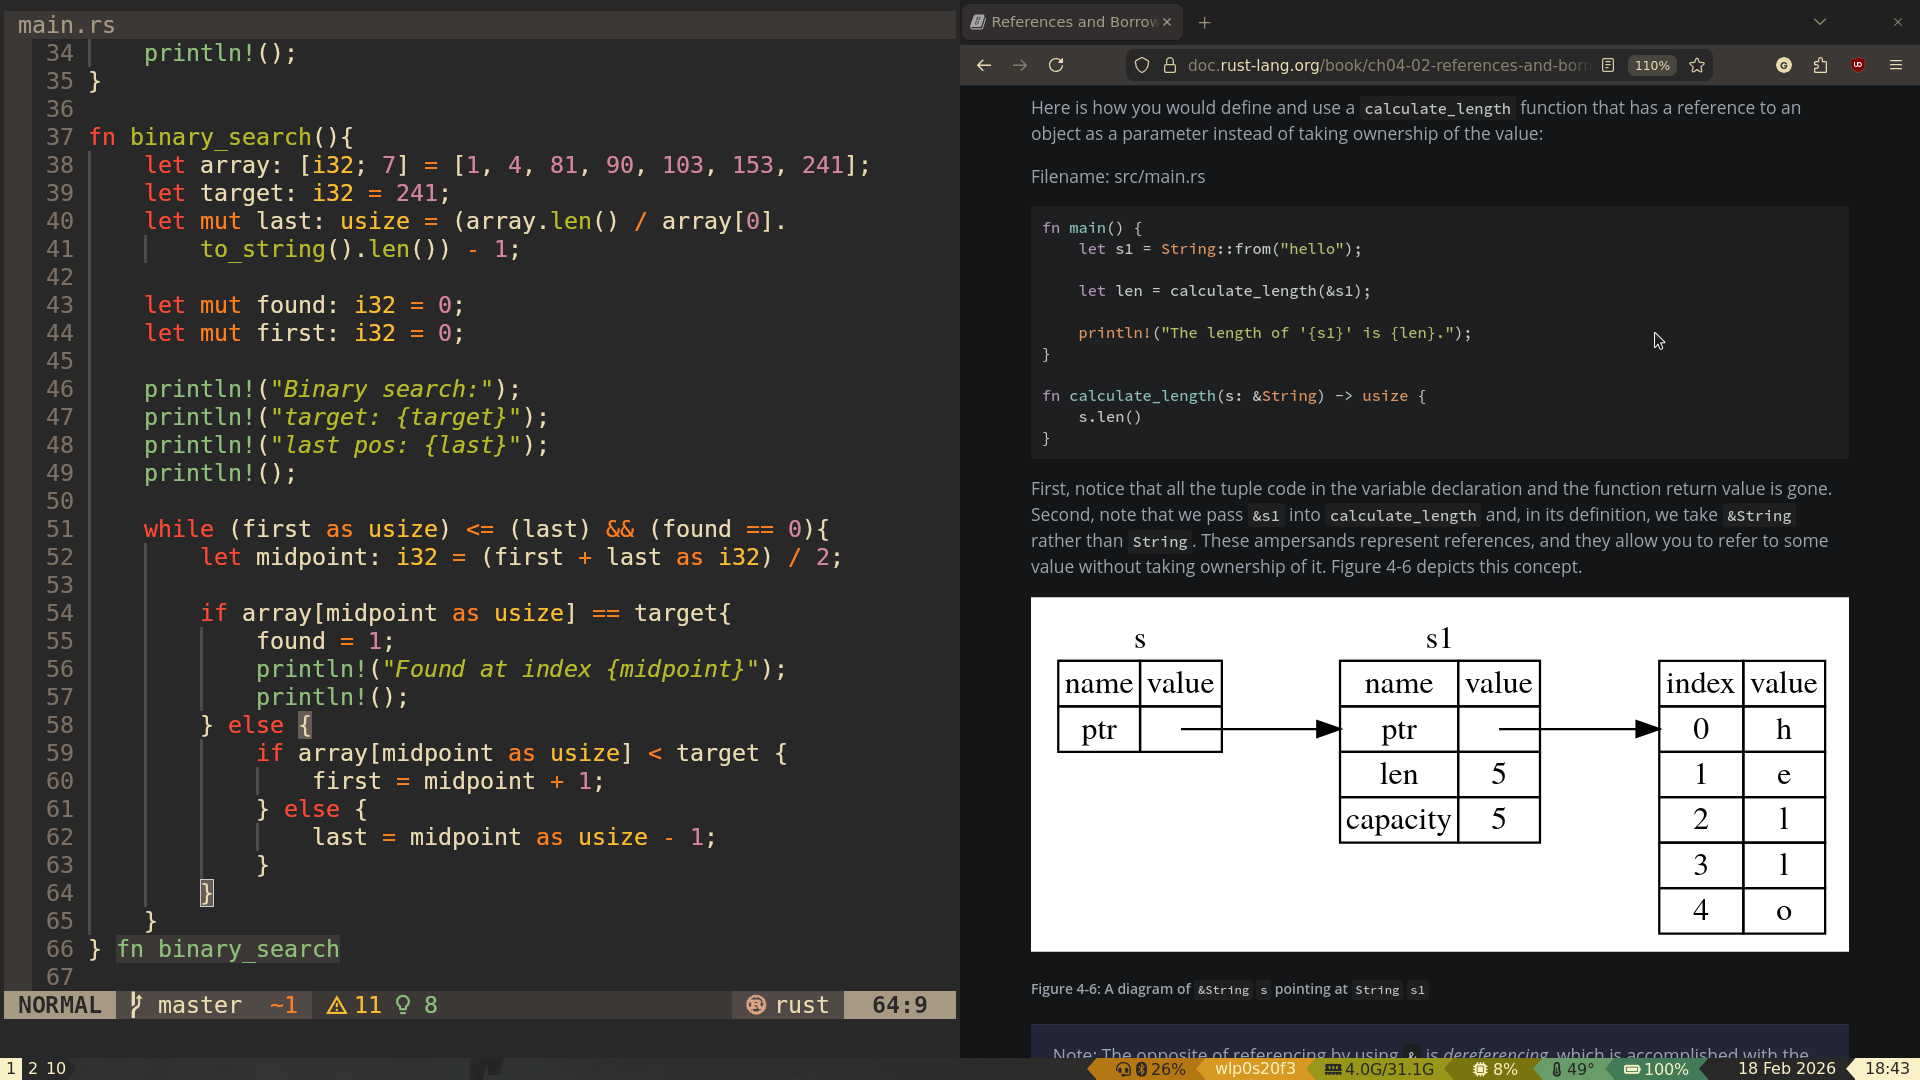
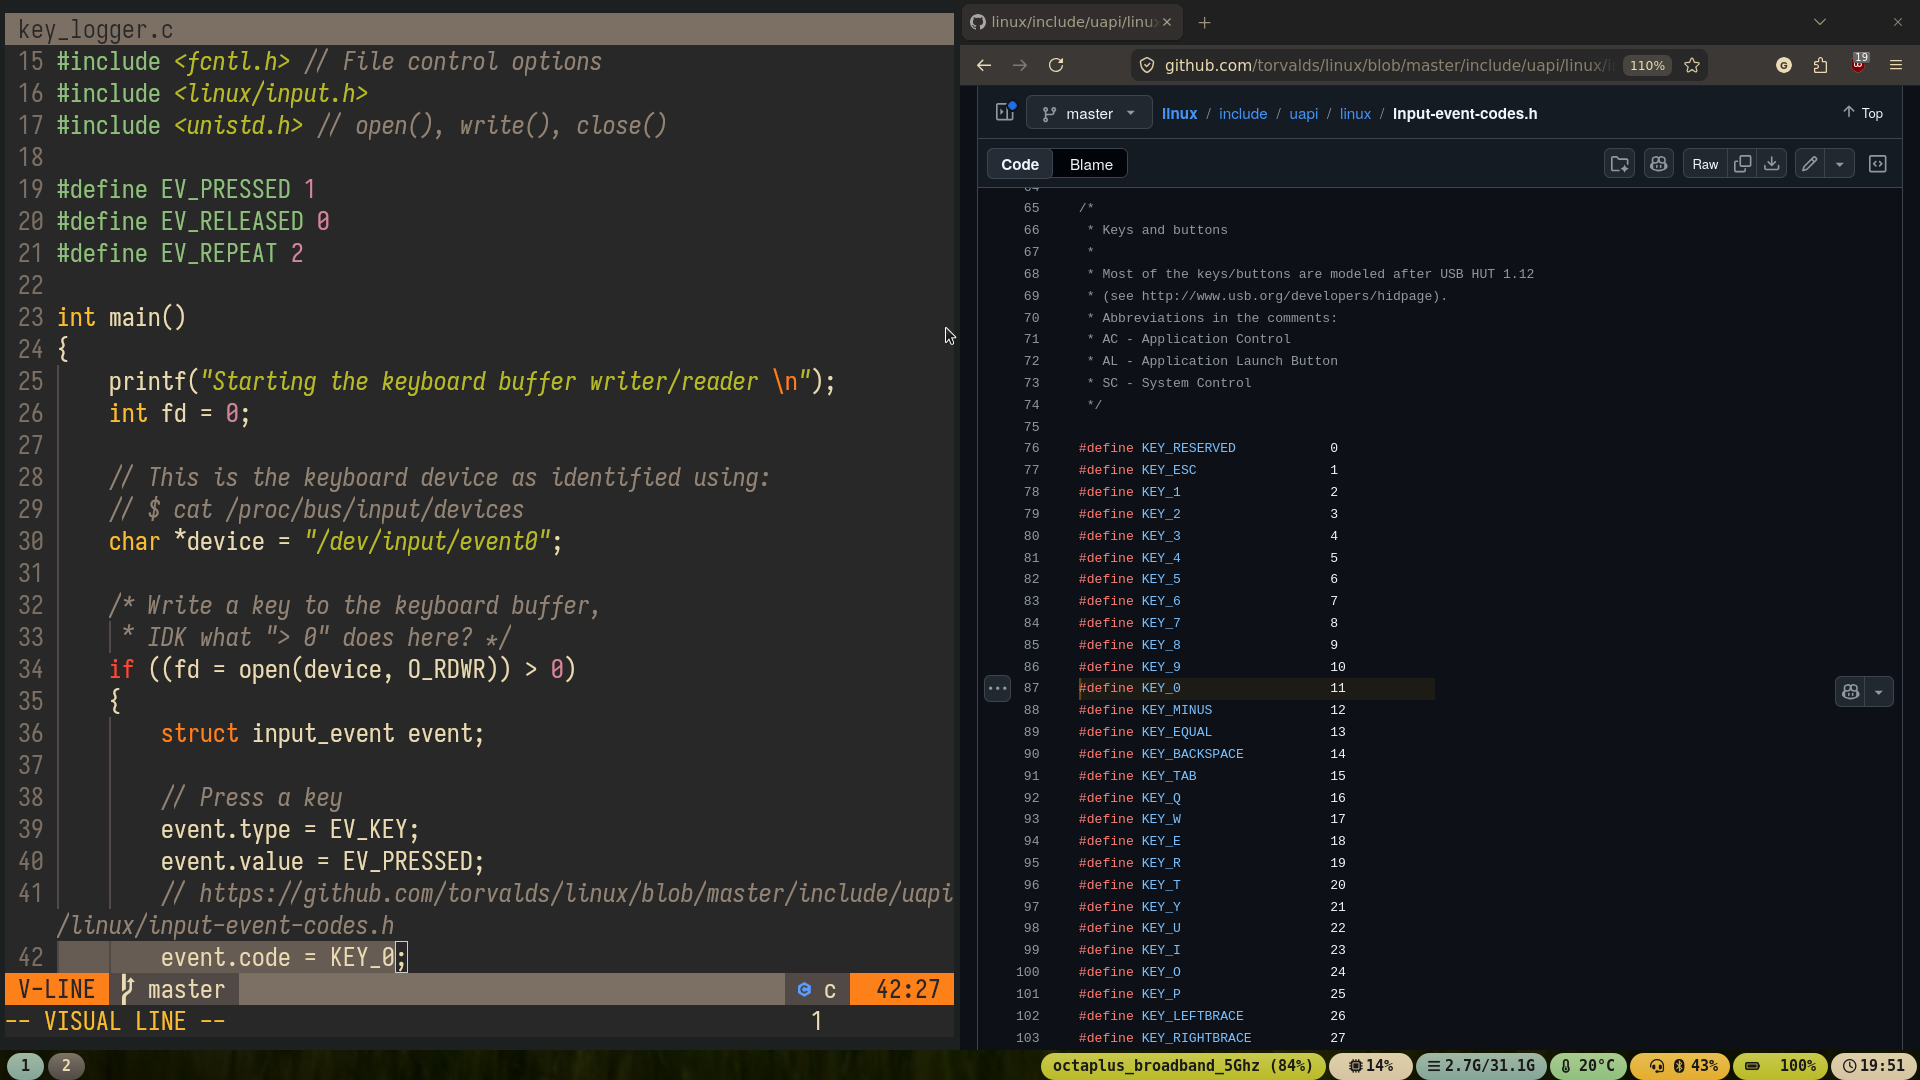
Updated showcase images, removed fastfetch from showcase

diff --git a/README.md b/README.md
@@ -1,10 +1,7 @@
 # My NixOS config:
-(Images have been outdated for a while, and still are)
 ![desktop](showcase/desktop.png)
 
 ![rofi](showcase/rofi.png)
-
-![fastfetch](showcase/fastfetch.png)
 
 ![neovim](showcase/neovim.png)
 